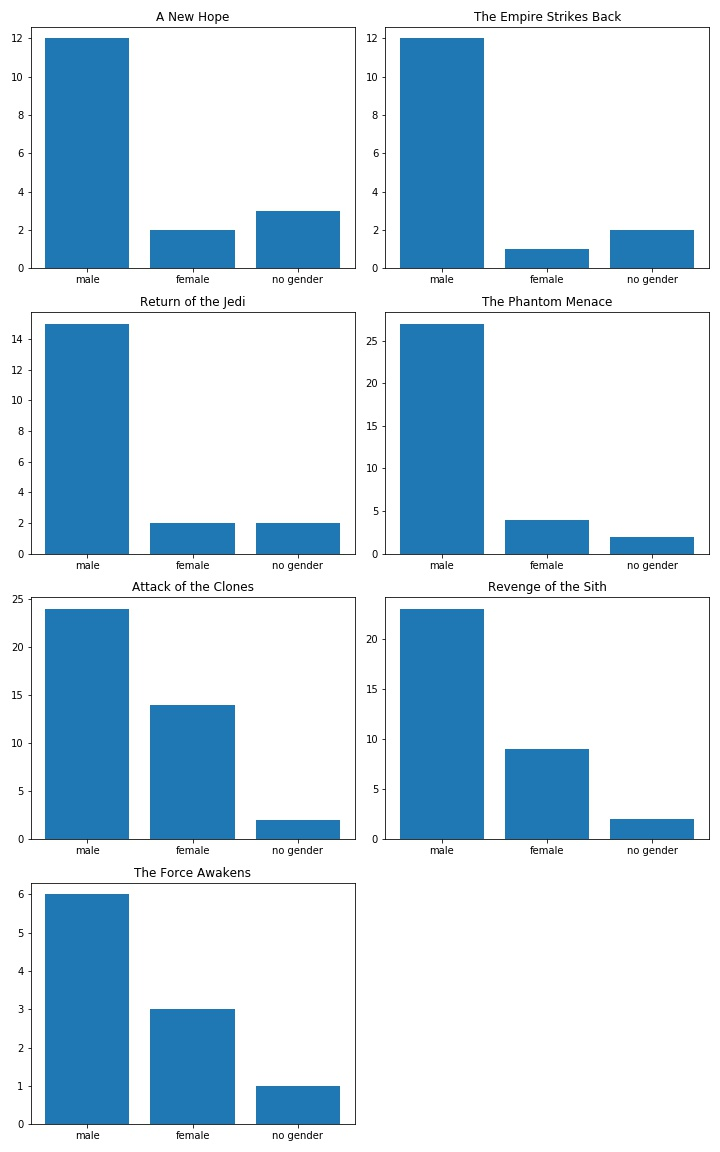
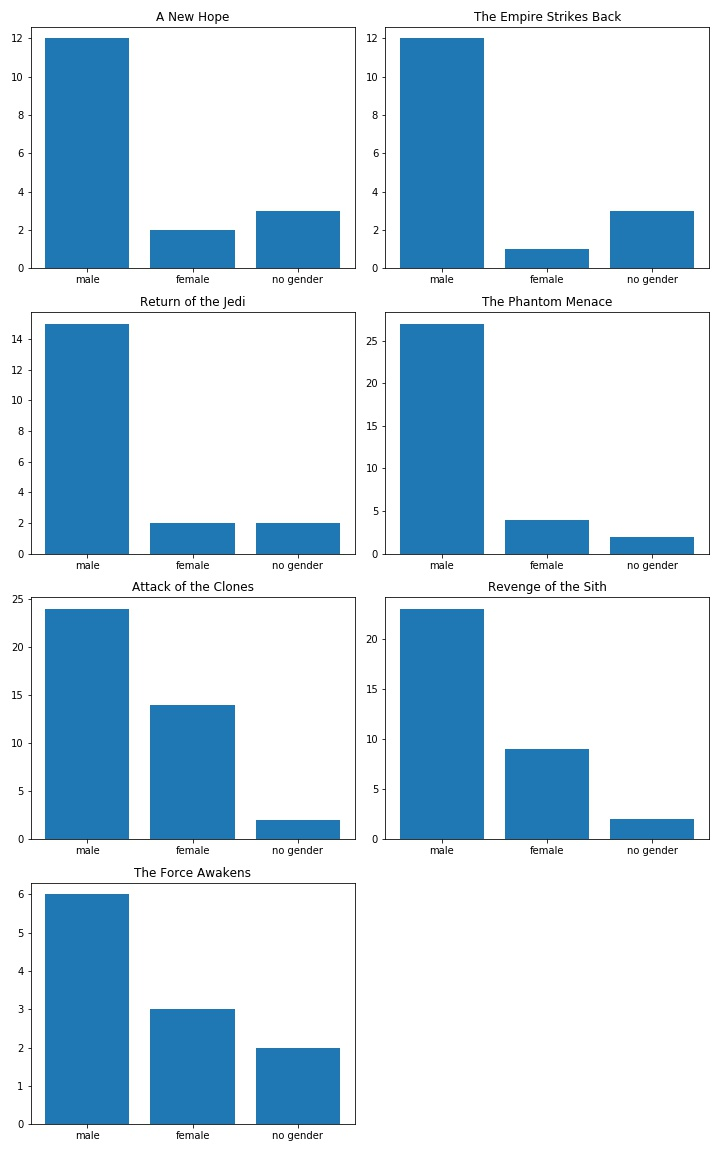
just cleaning things up for the readme

Changed region(s): [[0.825, 0.1562, 0.9778, 0.2188], [0.3361, 0.9062, 0.4889, 0.9688]]

diff --git a/src/data_analysis/df_utilities.py b/src/data_analysis/df_utilities.py
@@ -190,6 +190,7 @@ def cleanup(df):
     # that there isn't a value there.
     category_replacements = [['eye_color',{'n/a':'no eyes'}],
                             ['gender',{'n/a':'no gender'}],
+                            ['gender',{'none':'no gender'}],
                             ['hair_color',{'n/a':'no hair'}]]
     df['birth_year'] = format_birth_year(df['birth_year'])
     df = urls_to_names(df, col_name='homeworld')
